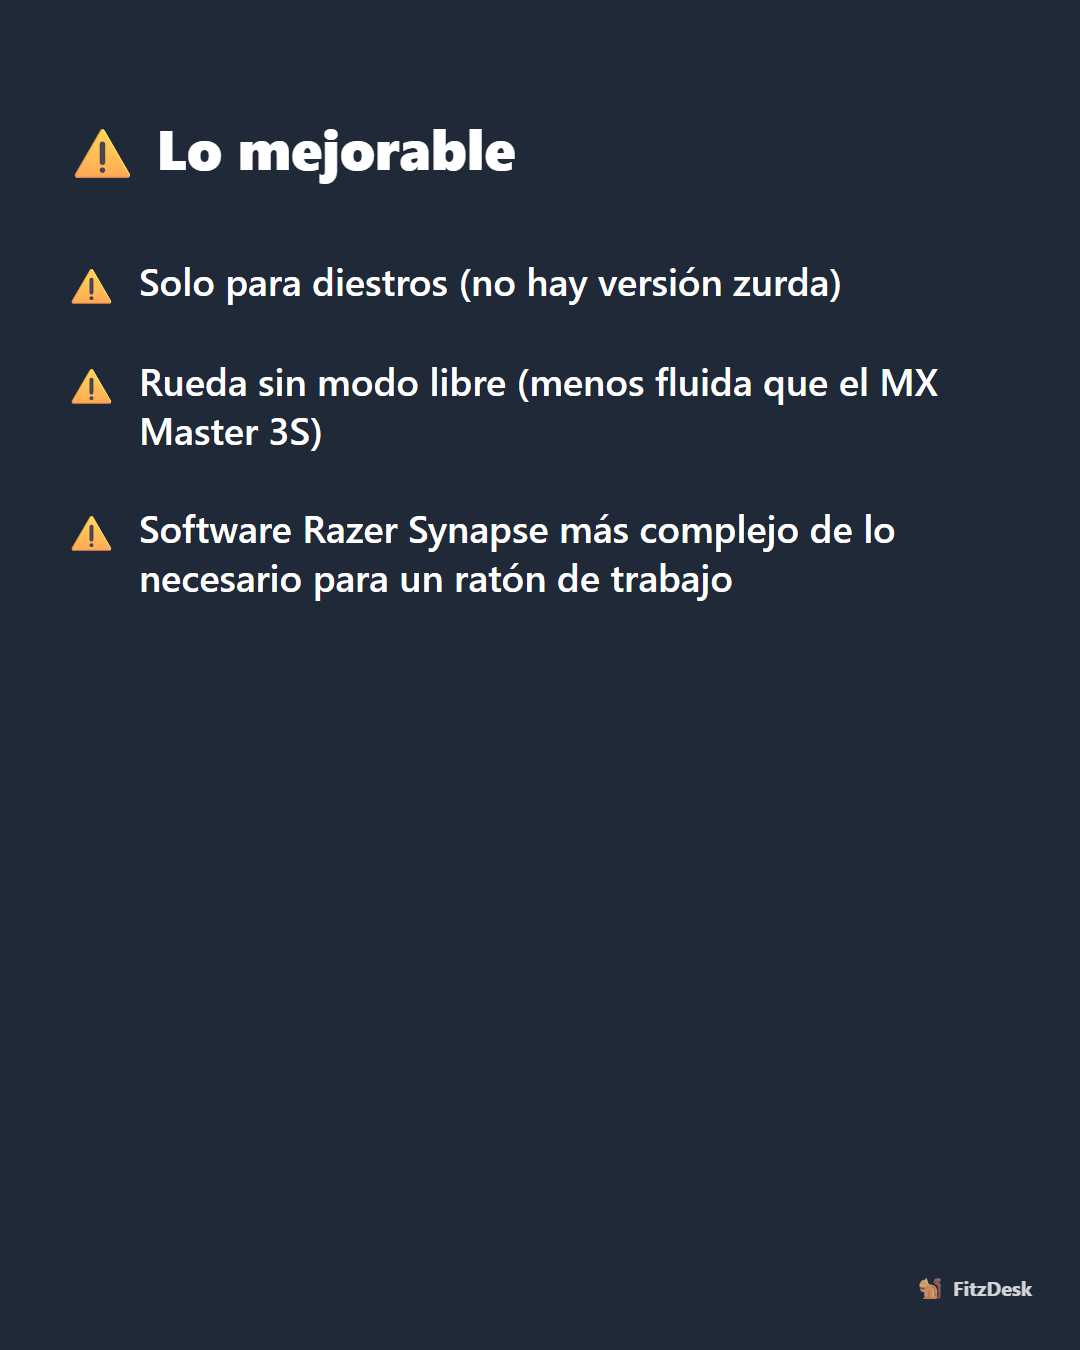
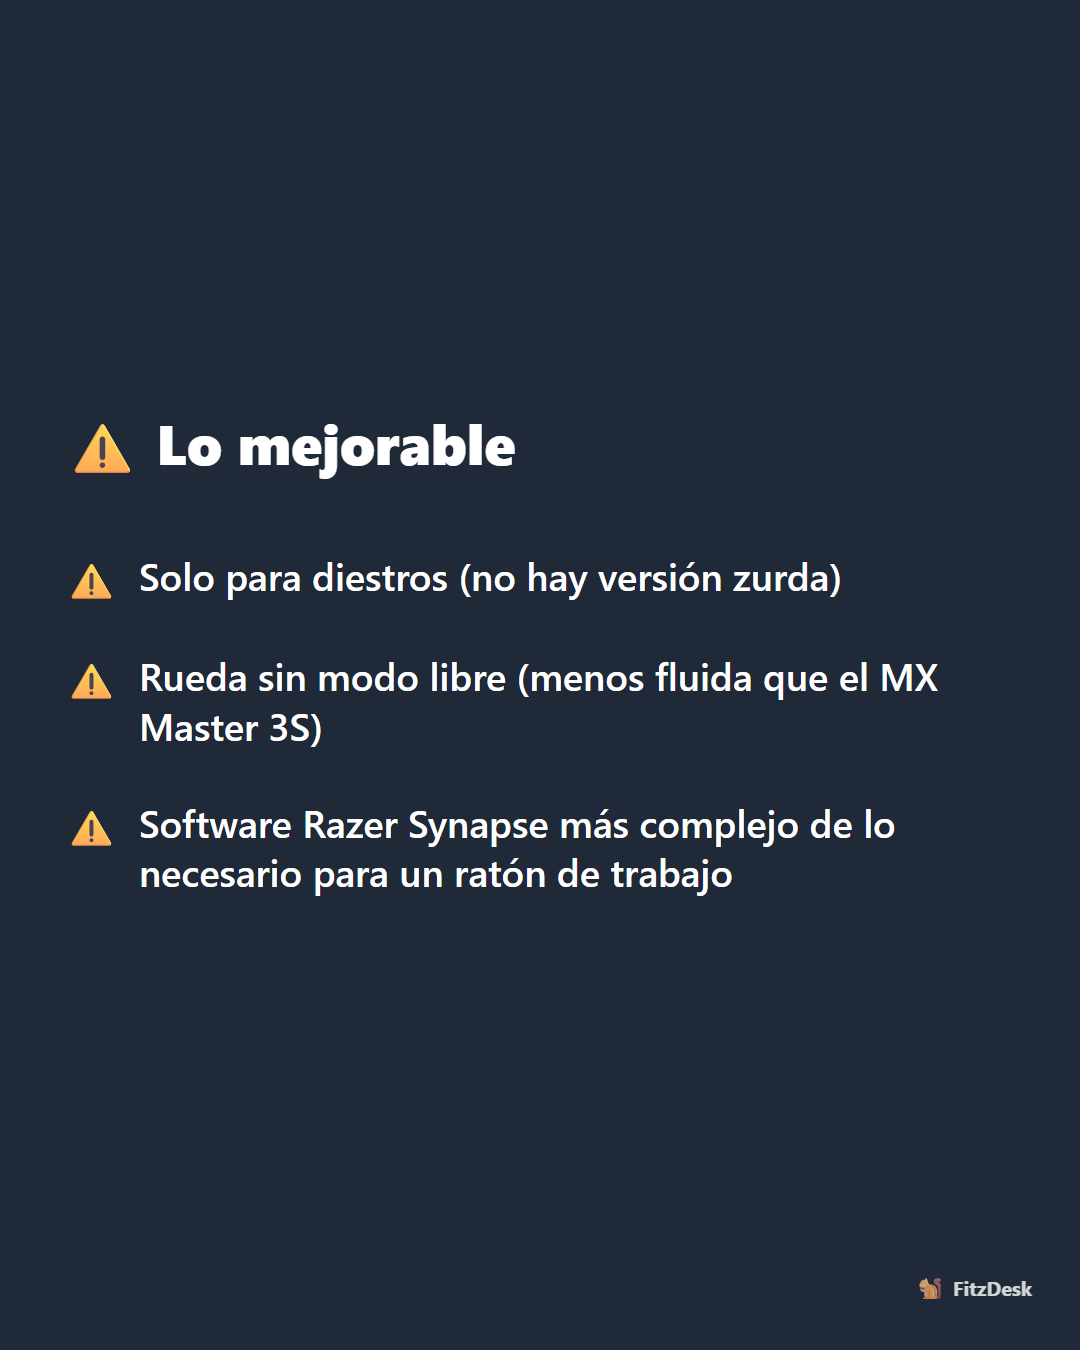
fix: ajustes visuales carrusel Instagram

diff --git a/fitzdesk-monitor/instagramImageGenerator.js b/fitzdesk-monitor/instagramImageGenerator.js
@@ -239,6 +239,12 @@ ${baseHead()}
     height: 62%;
     background: linear-gradient(to bottom, rgba(0,0,0,0) 0%, rgba(0,0,0,0.55) 45%, rgba(0,0,0,0.92) 100%);
   }
+  .gradient-top {
+    position: absolute;
+    left: 0; right: 0; top: 0;
+    height: 420px;
+    background: linear-gradient(to bottom, rgba(0,0,0,1) 0%, rgba(0,0,0,1) 60%, rgba(0,0,0,0) 100%);
+  }
   .logo {
     position: absolute;
     top: 48px; left: 48px;
@@ -283,6 +289,7 @@ ${baseHead()}
 </head>
 <body>
   <div class="canvas">
+    <div class="gradient-top"></div>
     <div class="gradient"></div>
     <div class="logo">
       <span class="logo-emoji">🐿</span>
@@ -318,9 +325,10 @@ ${baseHead()}
     width: ${WIDTH}px;
     height: ${HEIGHT}px;
     background: #1F2937;
-    padding: 110px 64px;
+    padding: 64px;
     display: flex;
     flex-direction: column;
+    justify-content: center;
   }
   .heading { color: ${headingColor}; font-size: 56px; font-weight: 800; margin-bottom: 72px; }
   .list-item { display: flex; align-items: flex-start; gap: 20px; margin-bottom: 48px; }
@@ -412,11 +420,74 @@ ${baseHead()}
 
 // ─── Captura con Puppeteer ──────────────────────────────────────────────────────
 
-async function captureHtml(browser, html, outputPath) {
+// Reduce el font-size de selector progresivamente mientras el texto
+// desborde su caja (scrollHeight > clientHeight, la forma estándar de
+// detectar recorte con -webkit-line-clamp activo). Si al llegar a minSize
+// sigue sin caber en normalLines, amplía a maxLines antes de rendirse (la
+// elipsis de line-clamp se encarga del resto si aun así desborda).
+async function autofitLineClamp(page, selector, { startSize, minSize, normalLines, maxLines, step = 2 }) {
+  await page.evaluate((sel, startSize, minSize, normalLines, maxLines, step) => {
+    const el = document.querySelector(sel);
+    let fontSize = startSize;
+    el.style.fontSize = `${fontSize}px`;
+    el.style.webkitLineClamp = String(normalLines);
+
+    const overflowing = () => el.scrollHeight > el.clientHeight + 1;
+
+    while (overflowing() && fontSize > minSize) {
+      fontSize = Math.max(minSize, fontSize - step);
+      el.style.fontSize = `${fontSize}px`;
+    }
+
+    if (overflowing() && maxLines > normalLines) {
+      el.style.webkitLineClamp = String(maxLines);
+    }
+  }, selector, startSize, minSize, normalLines, maxLines, step);
+}
+
+// Para el veredicto: igual que arriba, pero si al máximo de líneas y
+// tamaño mínimo todavía desborda, recorta el TEXTO por frase completa
+// (nunca a mitad de palabra) probando frase a frase hasta la última que
+// quepa, en vez de dejar que line-clamp corte en cualquier punto.
+async function autofitVerdict(page, selector, originalText, options) {
+  await autofitLineClamp(page, selector, options);
+
+  const stillOverflowing = await page.evaluate(sel => {
+    const el = document.querySelector(sel);
+    return el.scrollHeight > el.clientHeight + 1;
+  }, selector);
+  if (!stillOverflowing) return;
+
+  const sentences = originalText.match(/[^.!?]+[.!?]+(\s|$)/g)?.map(s => s.trim()).filter(Boolean)
+    || [originalText];
+
+  let truncated = '';
+  for (const sentence of sentences) {
+    const candidate = truncated ? `${truncated} ${sentence}` : sentence;
+    await page.evaluate((sel, val) => { document.querySelector(sel).textContent = val; }, selector, candidate);
+    const fits = await page.evaluate(sel => {
+      const el = document.querySelector(sel);
+      return el.scrollHeight <= el.clientHeight + 1;
+    }, selector);
+    if (!fits) break;
+    truncated = candidate;
+  }
+
+  // El bucle puede haber dejado puesto en el DOM el último candidato que
+  // NO cupo (se prueba antes de saber si encaja) — hay que volver a fijar
+  // explícitamente el último texto que sí encajó. Si ni siquiera la
+  // primera frase cabe, se muestra igualmente (mejor desbordar ligeramente
+  // que dejar el slide vacío).
+  const finalText = truncated || sentences[0];
+  await page.evaluate((sel, val) => { document.querySelector(sel).textContent = val; }, selector, finalText);
+}
+
+async function captureHtml(browser, html, outputPath, afterRender) {
   const page = await browser.newPage();
   try {
     await page.setViewport({ width: WIDTH, height: HEIGHT });
     await page.setContent(html, { waitUntil: 'load' });
+    if (afterRender) await afterRender(page);
     await page.screenshot({ path: outputPath, type: 'png' });
   } finally {
     await page.close();
@@ -427,23 +498,37 @@ export async function generateInstagramCarousel(slug) {
   const articleData = loadArticleData(slug);
   const { pros, contras, veredicto } = await getCarouselContent(articleData);
 
-  const slidesHtml = [
-    buildSlide1Html(articleData),
-    buildListSlideHtml({ heading: '✅ Lo mejor', headingColor: '#F97316', items: pros, icon: '✅' }),
-    buildListSlideHtml({ heading: '⚠ Lo mejorable', headingColor: '#FFFFFF', items: contras, icon: '⚠' }),
-    buildVerdictSlideHtml({ veredicto, puntuacion: articleData.puntuacion }),
+  const slides = [
+    {
+      html: buildSlide1Html(articleData),
+      afterRender: page => autofitLineClamp(page, '.title', {
+        startSize: 58, minSize: 36, normalLines: 2, maxLines: 3, step: 2,
+      }),
+    },
+    {
+      html: buildListSlideHtml({ heading: '✅ Lo mejor', headingColor: '#F97316', items: pros, icon: '✅' }),
+    },
+    {
+      html: buildListSlideHtml({ heading: '⚠ Lo mejorable', headingColor: '#FFFFFF', items: contras, icon: '⚠' }),
+    },
+    {
+      html: buildVerdictSlideHtml({ veredicto, puntuacion: articleData.puntuacion }),
+      afterRender: page => autofitVerdict(page, '.verdict', veredicto, {
+        startSize: 50, minSize: 28, normalLines: 2, maxLines: 3, step: 2,
+      }),
+    },
   ];
 
   fs.mkdirSync(OUTPUT_DIR, { recursive: true });
-  const outputPaths = slidesHtml.map((_, i) => path.join(OUTPUT_DIR, `${slug}-instagram-${i + 1}.png`));
+  const outputPaths = slides.map((_, i) => path.join(OUTPUT_DIR, `${slug}-instagram-${i + 1}.png`));
 
   const browser = await puppeteer.launch({
     headless: true,
     args: ['--no-sandbox', '--disable-setuid-sandbox'],
   });
   try {
-    for (let i = 0; i < slidesHtml.length; i++) {
-      await captureHtml(browser, slidesHtml[i], outputPaths[i]);
+    for (let i = 0; i < slides.length; i++) {
+      await captureHtml(browser, slides[i].html, outputPaths[i], slides[i].afterRender);
     }
   } finally {
     await browser.close();

diff --git a/CLAUDE.md b/CLAUDE.md
@@ -454,6 +454,8 @@ A partir de ahora, cualquier publicación automática futura disparará el deplo
 - **Extracción de pros/contras/veredicto**: primero se comprueba el frontmatter (campos `lo_mejor`/`lo_mejorable`/`fitzQuote`, poco habituales en el esquema actual); si no están, se **parsean directamente las secciones Markdown** `## Lo mejor` / `## Lo mejorable` / `## Fitz recomienda` del cuerpo del artículo (rápido, gratuito, sin IA — estas secciones existen de forma consistente en los análisis ya publicados); solo si ese parseo no encuentra nada se generan/condensan con Groq como último recurso. El veredicto siempre se condensa con Groq a una frase de ≤2 líneas a partir de la sección "Fitz recomienda" (la sección original es varios párrafos, demasiado larga para el slide), con fallback a la primera frase disponible si Groq falla
 - La imagen original se embebe en cada plantilla como `data:` URI (sin servir archivos por `file://`). Chromium se lanza con `--no-sandbox --disable-setuid-sandbox` (necesario en runners de GitHub Actions). Probado en local y en una simulación completa de checkout limpio + `npm ci --omit=dev`, incluida la extracción con Groq
 - La imagen de Facebook (`socialImageGenerator.js`, Sharp) y el carrusel de Instagram (`instagramImageGenerator.js`, Puppeteer) se generan **bajo demanda** desde `socialPublisher.js` (`ensureFacebookImage()` / `ensureInstagramCarousel()`) si no existen todavía — no hace falta ejecutarlos a mano en el flujo normal, solo para pruebas o regeneración manual: `node socialImageGenerator.js --slug [slug]` (Facebook) / `node instagramImageGenerator.js --slug [slug]` (Instagram, genera los 4 slides de golpe)
+- **Ajustes visuales del carrusel (2026-06-24)**: `autofitLineClamp()` reduce el `font-size` del título (slide 1, 58→36px) y del veredicto (slide 4, 50→28px) mientras el texto desborde su caja (`scrollHeight > clientHeight`, técnica estándar para detectar recorte con `-webkit-line-clamp`), ampliando de 2 a 3 líneas como último recurso antes de dejar que la elipsis de CSS corte. Slides 2 y 3 centrados verticalmente (`justify-content: center`). Slide 1 con degradado oscuro también arriba (no solo abajo) para tapar el texto de marca que trae la foto original de fondo
+- **Bug real encontrado y corregido durante la verificación**: en `autofitVerdict()`, cuando una frase candidata no cabía, el bucle hacía `break` sin volver a fijar en el DOM el último texto que sí cabía — se quedaba puesto el candidato fallido (probado en el DOM antes de comprobar si encajaba), y el recorte de `-webkit-line-clamp` acababa cortando esa versión larga a media palabra con "…", justo el problema que se quería evitar. Corregido fijando siempre `truncated || sentences[0]` al final de la función, independientemente de en qué frase se detuvo el bucle
 - **Captions generados con IA (2026-06-24)**: `socialPublisher.js` genera el texto de Instagram y Facebook con Groq (`llama-3.3-70b-versatile`, mismo modelo que `analyzer.js`) a partir del frontmatter y el cuerpo del artículo, con una estructura distinta por red (Instagram: gancho + beneficios cortos + veredicto de Fitz + CTA fija + máx. 5 hashtags: Facebook: párrafo introductorio + 3-4 puntos clave + pregunta para comentarios + máx. 2 hashtags, sin URL inventada por la IA — el enlace real se añade después en código). **Si Groq falla o no devuelve nada, cae automáticamente a las plantillas fijas anteriores** (`buildInstagramCaption()`/`buildFacebookCaption()`) en vez de bloquear la publicación — verificado simulando una `GROQ_API_KEY` inválida
 - **Bug conocido de Groq mitigado**: el modelo mezcla ocasionalmente algún carácter CJK suelto en medio de palabras en español (visto en vivo durante las pruebas: "te伴e" en vez de "te acompañe" — mismo tipo de fallo ya documentado para borradores de `analyzer.js`). `stripStrayCjk()` los elimina como red de seguridad antes de publicar cualquier caption generado con IA
 - **Pinterest**: preparado en el código (`publishPinterest()`, `buildPinterestDescription()`) pero **desactivado** — `const PINTEREST_ENABLED = false` al inicio del archivo. **Activado brevemente y revertido el mismo día (2026-06-23)**: se probó activarlo, pero queda aparcado hasta conseguir la aprobación del scope `pins:write` en la API de Pinterest. No depende solo de los secrets — sin ese scope aprobado, las llamadas a la API fallarían aunque `PINTEREST_ACCESS_TOKEN`/`PINTEREST_BOARD_ID` existieran
